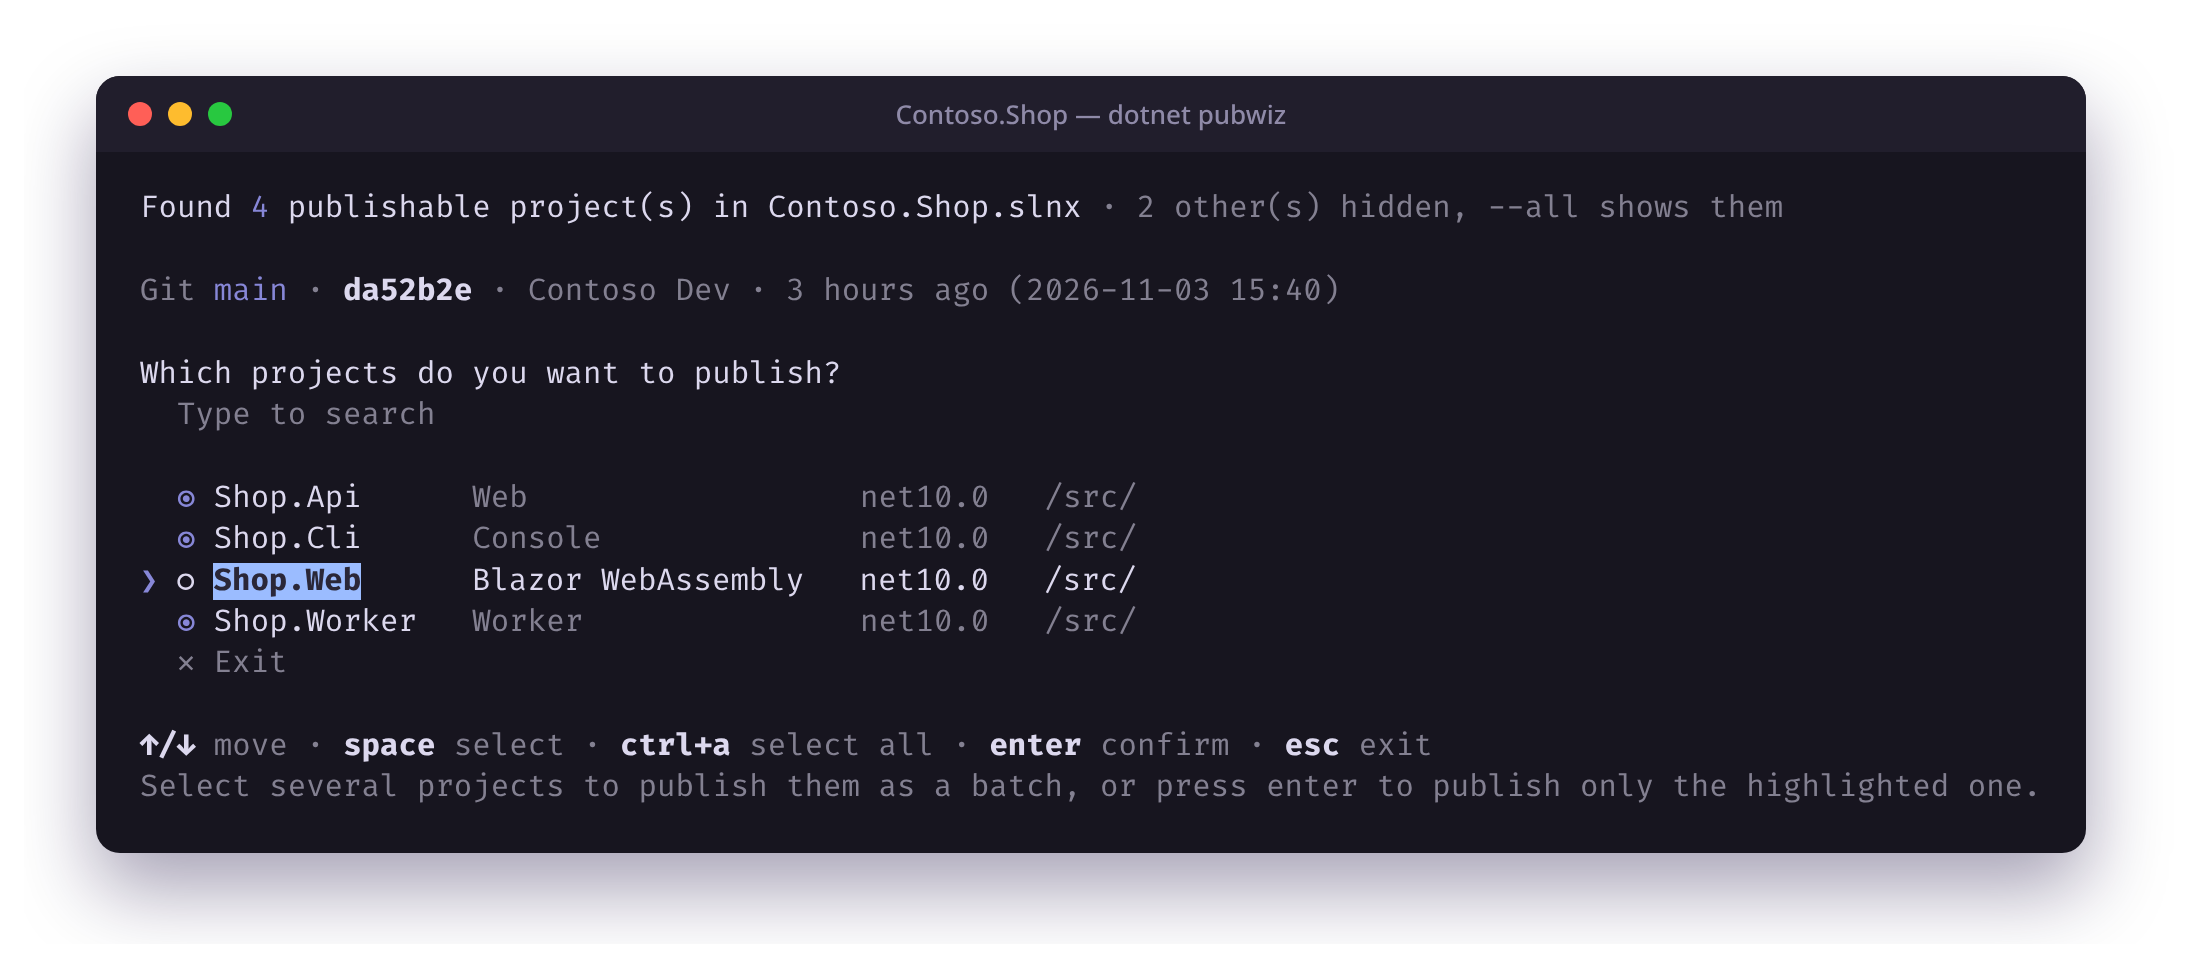
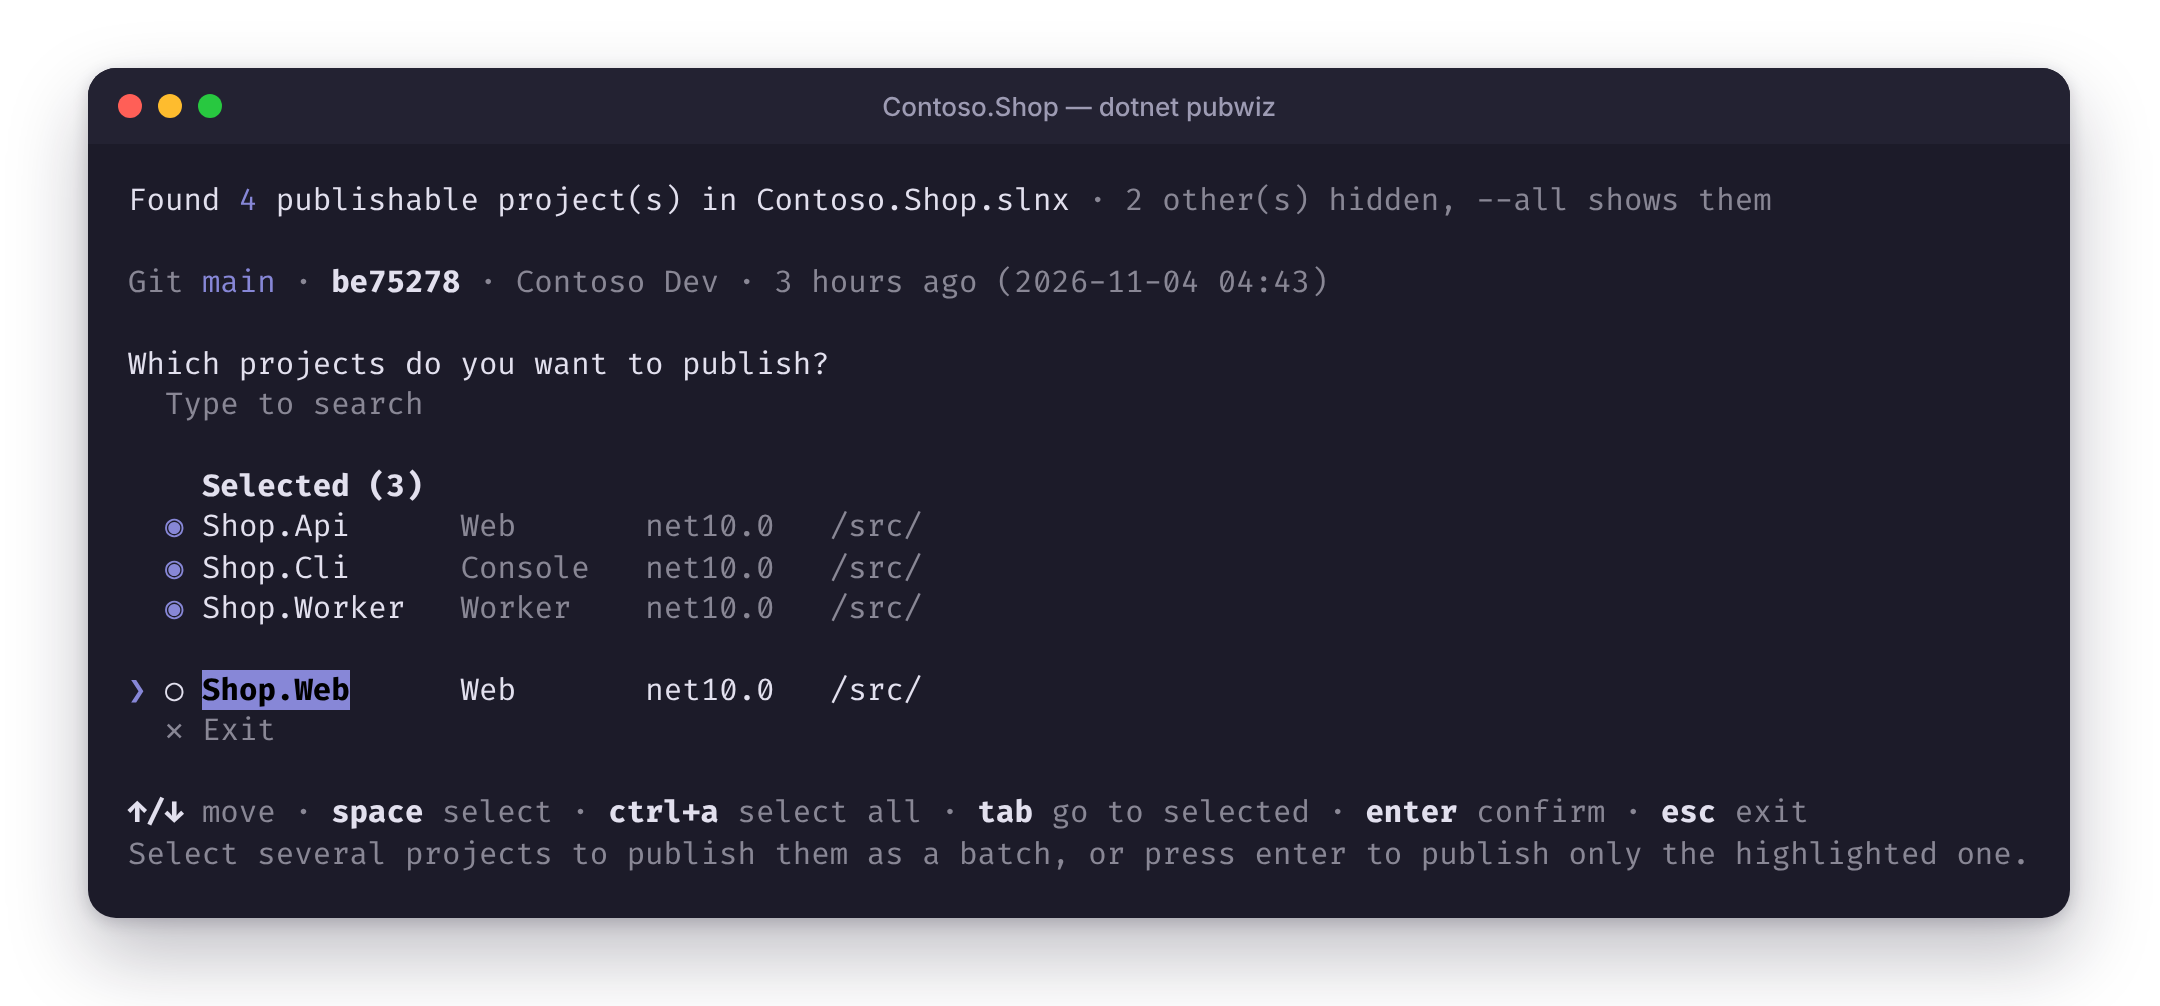
Add --project Name:N orders, fix two list bugs, refresh screenshots
- --project accepts an order after the last colon (Shop.Api:1); Windows
  paths like C:\src\Api.csproj are left alone, and order 0 is rejected.
- Select all then Enter exited instead of confirming: with every item
  selected the cursor was left on the Exit row. It now moves into the
  selected section.
- The "Nothing selected yet" line widened the name column. The sections
  now share fixed column widths measured from all items, and the lines
  between them are drawn outside the grid.
- New select-projects.png and choose-order.png, captured from a real
  terminal session.

diff --git a/src/Pubwiz.Tool/Prompts/MultiSelectPrompt.cs b/src/Pubwiz.Tool/Prompts/MultiSelectPrompt.cs
@@ -228,14 +228,12 @@ public sealed class MultiSelectPrompt<T>(string title, IReadOnlyList<T> items, F
         var unicode = console.Profile.Capabilities.Unicode;
         var columnCount = columns(items[0]).Count;
 
-        var grid = new Grid();
-        grid.AddColumn(new GridColumn().NoWrap().PadRight(1));
-        for (var i = 0; i < columnCount; i++)
-        {
-            grid.AddColumn(new GridColumn().NoWrap().PadRight(3));
-        }
+        // The sections are separate grids with the same fixed column widths, so they line up, and the lines between
+        // them (headings, "more", messages) are drawn outside the grids, so a long message can't stretch a column.
+        var widths = ColumnWidths(console, columnCount, unicode);
+        var body = new List<IRenderable>();
+        Grid? grid = null;
 
-        // Everything goes in one grid, so the selected section's columns line up with the list's.
         if (state.ShowsSelected)
         {
             var lastSelected = state.SelectedOffset + state.SelectedPageSize;
@@ -244,27 +242,27 @@ public sealed class MultiSelectPrompt<T>(string title, IReadOnlyList<T> items, F
                 + (lastSelected < state.Selected.Count ? " ↓" : "");
             var headingStyle = state.Focus == MultiSelectSection.Selected ? $"{Widgets.PrimaryColorMarkup} bold" : "bold";
 
-            grid.AddRow(Line(string.Empty, columnCount));
-            grid.AddRow(Line($"[{headingStyle}]{heading}[/]", columnCount));
+            AddLine(string.Empty);
+            AddLine($"[{headingStyle}]{heading}[/]");
             if (state.Selected.Count == 0)
             {
-                grid.AddRow(Line("[dim]Nothing selected yet, press space to select[/]", columnCount));
+                AddLine("[dim]Nothing selected yet, press space to select[/]");
             }
 
             for (var row = state.SelectedOffset; row < lastSelected; row++)
             {
                 var isCursor = state.Focus == MultiSelectSection.Selected && row == state.SelectedCursor;
-                grid.AddRow(RenderItem(state.Selected[row], state, isCursor, unicode));
+                AddRow(RenderItem(state.Selected[row], state, isCursor, unicode));
             }
         }
 
-        grid.AddRow(Line(state.Offset > 0 ? "[dim]↑ more[/]" : string.Empty, columnCount));
+        AddLine(state.Offset > 0 ? "[dim]↑ more[/]" : string.Empty);
         if (state.VisibleItems.Count == 0)
         {
             var empty = state.Search.Length == 0
                 ? "Everything is selected"
                 : $"Nothing {(state.Selected.Count > 0 ? "else " : "")}matches '{state.Search.EscapeMarkup()}'";
-            grid.AddRow(Line($"[dim]{empty}[/]", columnCount));
+            AddLine($"[dim]{empty}[/]");
         }
 
         var listFocused = state.Focus == MultiSelectSection.List;
@@ -272,12 +270,12 @@ public sealed class MultiSelectPrompt<T>(string title, IReadOnlyList<T> items, F
         for (var row = state.Offset; row < lastRow; row++)
         {
             var isCursor = listFocused && row == state.Cursor;
-            grid.AddRow(row < state.VisibleItems.Count
+            AddRow(row < state.VisibleItems.Count
                 ? RenderItem(state.VisibleItems[row], state, isCursor, unicode)
                 : RenderExitRow(columnCount, isCursor, unicode));
         }
 
-        grid.AddRow(Line(lastRow < state.RowCount ? "[dim]↓ more[/]" : string.Empty, columnCount));
+        AddLine(lastRow < state.RowCount ? "[dim]↓ more[/]" : string.Empty);
 
         var rows = new List<IRenderable>();
         if (_header is not null)
@@ -286,18 +284,66 @@ public sealed class MultiSelectPrompt<T>(string title, IReadOnlyList<T> items, F
             rows.Add(new Text(string.Empty));
         }
 
-        rows.AddRange([new Markup(title), RenderSearch(state), grid, RenderKeys(state)]);
+        rows.AddRange([new Markup(title), RenderSearch(state), .. body, RenderKeys(state)]);
         if (Hint is not null)
         {
             rows.Add(new Markup($"[dim]{Hint}[/]"));
         }
 
         return new Rows(rows);
+
+        void AddRow(IRenderable[] cells)
+        {
+            if (grid is null)
+            {
+                grid = new Grid();
+                for (var i = 0; i < widths.Length; i++)
+                {
+                    grid.AddColumn(new GridColumn().NoWrap().Width(widths[i]).PadRight(i == 0 ? 1 : 3));
+                }
+
+                body.Add(grid);
+            }
+
+            grid.AddRow(cells);
+        }
+
+        // A line of markup lined up with the names (empty for a blank line); the next item row starts a new grid.
+        void AddLine(string markup)
+        {
+            grid = null;
+            body.Add(markup.Length == 0 ? Text.Empty : new Markup(new string(' ', widths[0] + 1) + markup));
+        }
     }
 
-    /// <summary>A grid row with <paramref name="markup"/> in the name column and the other cells empty.</summary>
-    private static Markup[] Line(string markup, int columnCount) =>
-        [new Markup(string.Empty), new Markup(markup), .. Enumerable.Range(0, columnCount - 1).Select(_ => new Markup(string.Empty))];
+    /// <summary>
+    /// The width of each grid column: the pointer and checkbox, then the widest text of each column over all the items
+    /// (and the exit row), so the columns don't move while searching or selecting.
+    /// </summary>
+    private int[] ColumnWidths(IAnsiConsole console, int columnCount, bool unicode)
+    {
+        var options = RenderOptions.Create(console);
+        int Measure(string text) => ((IRenderable)new Text(text)).Measure(options, int.MaxValue).Max;
+
+        var widths = new int[columnCount + 1];
+        widths[0] = SingleSelect ? 1 : unicode ? 3 : 5; // "❯", "❯ ◉" or "> [x]"
+        foreach (var item in items)
+        {
+            var cells = columns(item);
+            for (var i = 0; i < columnCount; i++)
+            {
+                widths[i + 1] = Math.Max(widths[i + 1], Measure(cells[i]));
+            }
+        }
+
+        if (ExitLabel is not null)
+        {
+            var icon = unicode ? ExitIcon.Unicode : ExitIcon.Ascii;
+            widths[1] = Math.Max(widths[1], Measure(SingleSelect ? $"{icon} {ExitLabel}" : ExitLabel));
+        }
+
+        return widths.Select(width => Math.Max(width, 1)).ToArray();
+    }
 
     private static Markup RenderSearch(MultiSelectState state) => state.Search.Length == 0
         ? new Markup("[dim]  Type to search[/]")

diff --git a/src/Pubwiz.Tool/Wizard/ArgumentSelection.cs b/src/Pubwiz.Tool/Wizard/ArgumentSelection.cs
@@ -9,7 +9,10 @@ namespace Pubwiz.Tool.Wizard;
 public sealed class ArgumentSelection(WorkspacePage workspacePage)
 {
     /// <param name="path">Where to look for projects.</param>
-    /// <param name="projectNames">Project names (e.g. <c>Api</c>) or paths to project files.</param>
+    /// <param name="projectNames">
+    /// Project names (e.g. <c>Api</c>) or paths to project files, each optionally followed by <c>:order</c>
+    /// (e.g. <c>Api:1</c>, see <see cref="ParseProject"/>).
+    /// </param>
     /// <param name="profileName">The profile every selected project is published with.</param>
     /// <param name="cancellationToken">Cancels loading.</param>
     /// <exception cref="UserErrorException">A project or profile wasn't found.</exception>
@@ -23,18 +26,37 @@ public sealed class ArgumentSelection(WorkspacePage workspacePage)
         var workspace = await workspacePage.LoadAsync(path, includeAll: true, cancellationToken);
         var selections = new List<PublishSelection>();
 
-        foreach (var name in projectNames)
+        foreach (var argument in projectNames)
         {
+            var (name, order) = ParseProject(argument);
             var project = FindProject(workspace, name)
                 ?? throw new UserErrorException($"No project named '{name}' was found. Projects: {string.Join(", ", workspace.Projects.Select(p => p.Name))}.");
 
             var profile = PublishProfileStore.List(project.Directory).FirstOrDefault(p => string.Equals(p.Name, profileName, StringComparison.OrdinalIgnoreCase))
                 ?? throw new UserErrorException($"{project.Name} has no publish profile named '{profileName}'.");
 
-            selections.Add(new PublishSelection(project, profile));
+            selections.Add(new PublishSelection(project, profile) { Order = order });
         }
 
         return new PublishBatch(selections);
+    }
+
+    /// <summary>
+    /// Splits a <c>--project</c> value into the project and its order: <c>Api:2</c> is Api in step 2. Only digits after
+    /// the last colon count as an order, so Windows paths such as <c>C:\src\Api.csproj</c> are left alone.
+    /// </summary>
+    /// <exception cref="UserErrorException">The order is 0.</exception>
+    internal static (string Project, int? Order) ParseProject(string value)
+    {
+        var colon = value.LastIndexOf(':');
+        if (colon <= 0 || colon == value.Length - 1 || !value[(colon + 1)..].All(char.IsAsciiDigit))
+        {
+            return (value, null);
+        }
+
+        return int.TryParse(value[(colon + 1)..], out var order) && order >= 1
+            ? (value[..colon], order)
+            : throw new UserErrorException($"The order in '--project {value}' must be a number from 1 up.");
     }
 
     /// <summary>Matches by project name (case-insensitive) or by project file path.</summary>

diff --git a/tests/Pubwiz.Tool.Tests/Prompts/MultiSelectStateTests.cs b/tests/Pubwiz.Tool.Tests/Prompts/MultiSelectStateTests.cs
@@ -226,7 +226,7 @@ public class MultiSelectStateTests
         Assert.Equal(5, state.SelectedPageSize);
         Assert.Equal(10 - 5 - MultiSelectState.SelectedChromeHeight, state.ListPageSize);
 
-        state.SwitchSection();
+        Assert.Equal(MultiSelectSection.Selected, state.Focus); // everything is selected, so the list is empty
         state.MoveToEnd();
         Assert.Equal(19, state.SelectedCursor);
         Assert.Equal(15, state.SelectedOffset);
@@ -242,5 +242,28 @@ public class MultiSelectStateTests
 
         state.ToggleCursor();
         Assert.Equal(10 - 1 - MultiSelectState.SelectedChromeHeight, state.ListPageSize);
+    }
+
+    [Fact]
+    public void SelectingEverything_MovesTheCursorOffTheExitRow()
+    {
+        var state = Create(3, hasExitRow: true);
+
+        state.ToggleAll();
+
+        Assert.False(state.IsOnExitRow);
+        Assert.Equal(MultiSelectSection.Selected, state.Focus);
+    }
+
+    [Fact]
+    public void SelectingTheLastListedItem_MovesTheCursorToTheSelection()
+    {
+        var state = Create(2, hasExitRow: true);
+        state.ToggleCursor();
+
+        state.ToggleCursor();
+
+        Assert.Equal(MultiSelectSection.Selected, state.Focus);
+        Assert.Equal([0, 1], state.Selected);
     }
 }

diff --git a/tests/Pubwiz.Tool.Tests/Prompts/MultiSelectPromptTests.cs b/tests/Pubwiz.Tool.Tests/Prompts/MultiSelectPromptTests.cs
@@ -182,4 +182,30 @@ public class MultiSelectPromptTests
         Assert.Contains("Selected (0)", console.Output);
         Assert.Contains("Nothing selected yet", console.Output);
     }
+
+    [Fact]
+    public async Task ThePlaceholderLineDoesNotWidenTheNameColumn()
+    {
+        var console = CreateConsole();
+        console.Profile.Width = 120;
+        console.Input.PushKey(ConsoleKey.Enter);
+
+        await new MultiSelectPrompt<string>("Pick projects", Projects, name => [name, "detail"]).ShowAsync(console, TestContext.Current.CancellationToken);
+
+        // The name column is as wide as "Worker", not as the "Nothing selected yet" line.
+        Assert.Matches(@"Api {6}detail", console.Output);
+    }
+
+    [Fact]
+    public async Task CtrlAThenEnter_ConfirmsEverythingInsteadOfExiting()
+    {
+        var console = CreateConsole();
+        console.Input.PushKey(CtrlA);
+        console.Input.PushKey(ConsoleKey.Enter);
+
+        var prompt = new MultiSelectPrompt<string>("Pick projects", Projects, name => [name]) { ExitLabel = "Exit" };
+        var result = await prompt.ShowAsync(console, TestContext.Current.CancellationToken);
+
+        Assert.Equal(["Api", "Worker", "Web"], result!.Selected);
+    }
 }

diff --git a/tests/Pubwiz.Tool.Tests/Wizard/SelectionTests.cs b/tests/Pubwiz.Tool.Tests/Wizard/SelectionTests.cs
@@ -26,4 +26,21 @@ public class SelectionTests
         Assert.Same(api, ArgumentSelection.FindProject(workspace, "src/Api/Api.csproj"));
         Assert.Null(ArgumentSelection.FindProject(workspace, "Worker"));
     }
+
+    [Theory]
+    [InlineData("Api", "Api", null)]
+    [InlineData("Api:2", "Api", 2)]
+    [InlineData("src/Api/Api.csproj:1", "src/Api/Api.csproj", 1)]
+    [InlineData(@"C:\src\Api.csproj", @"C:\src\Api.csproj", null)]
+    [InlineData(@"C:\src\Api.csproj:3", @"C:\src\Api.csproj", 3)]
+    public void ParseProject_ReadsAnOptionalOrderAfterTheLastColon(string value, string project, int? order)
+    {
+        Assert.Equal((project, order), ArgumentSelection.ParseProject(value));
+    }
+
+    [Fact]
+    public void ParseProject_RejectsOrderZero()
+    {
+        Assert.Throws<UserErrorException>(() => ArgumentSelection.ParseProject("Api:0"));
+    }
 }

diff --git a/src/Pubwiz.Tool/Commands/PublishCommand.cs b/src/Pubwiz.Tool/Commands/PublishCommand.cs
@@ -45,7 +45,7 @@ public sealed class PublishCommand(
         public string? PresetFile { get; init; }
 
         [CommandOption("--project <NAME>")]
-        [Description("Publish this project (name or .csproj path) without the wizard; repeatable. Needs --profile")]
+        [Description("Publish this project (name or .csproj path) without the wizard; repeatable. Add :N for its order, e.g. Api:1 (the same number publishes at the same time). Needs --profile")]
         public string[] Projects { get; init; } = [];
 
         [CommandOption("--profile <NAME>")]

diff --git a/src/Pubwiz.Tool/Prompts/MultiSelectState.cs b/src/Pubwiz.Tool/Prompts/MultiSelectState.cs
@@ -283,6 +283,13 @@ public sealed class MultiSelectState
         else
         {
             SelectedCursor = Math.Min(SelectedCursor, _selectedRows.Count - 1);
+
+            // With every item selected, the list holds only the exit row; leaving the cursor there would make
+            // Enter exit instead of confirming the selection.
+            if (_visible.Count == 0)
+            {
+                Focus = MultiSelectSection.Selected;
+            }
         }
 
         KeepCursorsVisible();

diff --git a/README.md b/README.md
@@ -58,13 +58,15 @@ dotnet pubwiz
 
 **1. Pick the projects.** Type to search, press <kbd>Space</kbd> to select several for a batch (<kbd>Ctrl</kbd>+<kbd>A</kbd> selects all; selected projects move to a section at the top, and <kbd>Tab</kbd> jumps between it and the list), or <kbd>Enter</kbd> to publish just the highlighted one.
 
-<p align="center"><img src="assets/screenshots/select-projects.png" alt="Selecting three of the solution's projects"></p>
+<p align="center"><img src="assets/screenshots/select-projects.png" alt="Three projects selected and moved to the Selected section above the rest of the list"></p>
 
 **2. Pick a profile for each one**, or create one. New profiles start from a target, grouped by where the app is going:
 
 <p align="center"><img src="assets/screenshots/choose-target.png" alt="Choosing a publish target, grouped into Local, Servers, Azure and Containers" width="820"></p>
 
 **With several projects, choose the order.** Each project gets a number: lower numbers are published first, and projects with the same number are published at the same time. Type a number (or use <kbd>←</kbd>/<kbd>→</kbd>) to move the highlighted project to that step, <kbd>A</kbd> puts everything at the same time, <kbd>O</kbd> one after another. The list stays sorted into steps, and the line below it says what will happen, e.g. *Api and Worker at the same time, then Web*. The confirm page shows the steps again and can **Change the order** before publishing.
+
+<p align="center"><img src="assets/screenshots/choose-order.png" alt="Choosing the order: Shop.Api and Shop.Worker at the same time, then Shop.Web, then Shop.Cli" width="820"></p>
 
 Every list can be searched by typing. <kbd>Esc</kbd> or <kbd>Ctrl</kbd>+<kbd>C</kbd> in the later steps goes back to the project list.
 
@@ -103,11 +105,11 @@ Azure targets sign in with the [Azure CLI](https://learn.microsoft.com/cli/azure
 | `-c`, `--configuration` | Build configuration, overriding the profiles' (e.g. `Release` or `Debug`). |
 | `--preset <NAME>` | Run a saved preset from `pubwiz.json`. |
 | `--preset-file <FILE>` | The preset file to use (default: `pubwiz.json` in the folder or its parents). |
-| `--project <NAME>` | Publish this project (name or `.csproj` path) without the wizard; repeatable. Needs `--profile`. |
+| `--project <NAME>` | Publish this project (name or `.csproj` path) without the wizard; repeatable. Add `:N` to set its order, e.g. `--project Shop.Api:1 --project Shop.Worker:1 --project Shop.Web:2` (the same number publishes at the same time). Needs `--profile`. |
 | `--profile <NAME>` | The publish profile used with `--project`. |
 | `-y`, `--yes` | Don't ask for confirmation, and skip the menu after publishing. |
 | `--all` | Also list projects that normally aren't published (libraries, tests, Aspire AppHosts). |
-| `--parallel <N>` | The most projects to publish at the same time within a step (default: no limit, or the preset's). Without an order (`--project`), how many of them to publish at once (default 1). Parallel jobs build in their own folder (`obj/pubwiz-build/<profile>`), so projects that share a library don't lock each other's files. |
+| `--parallel <N>` | The most projects to publish at the same time within a step (default: no limit, or the preset's). When no project has an order, how many of them to publish at once (default 1). Parallel jobs build in their own folder (`obj/pubwiz-build/<profile>`), so projects that share a library don't lock each other's files. |
 | `--no-app-offline` | Keep IIS apps running while publishing. By default Web Deploy takes the app offline with `app_offline.htm` so locked files can be replaced (FTP/SFTP follow their profile). |
 | `--what-if` | Build, then only show what Web Deploy would change on the server (adds, updates, deletes), without deploying. Other targets fail with a message. |
 | `--show-log` | Show live build output while publishing (toggle with <kbd>L</kbd>; <kbd>←</kbd>/<kbd>→</kbd> switch between projects). |
